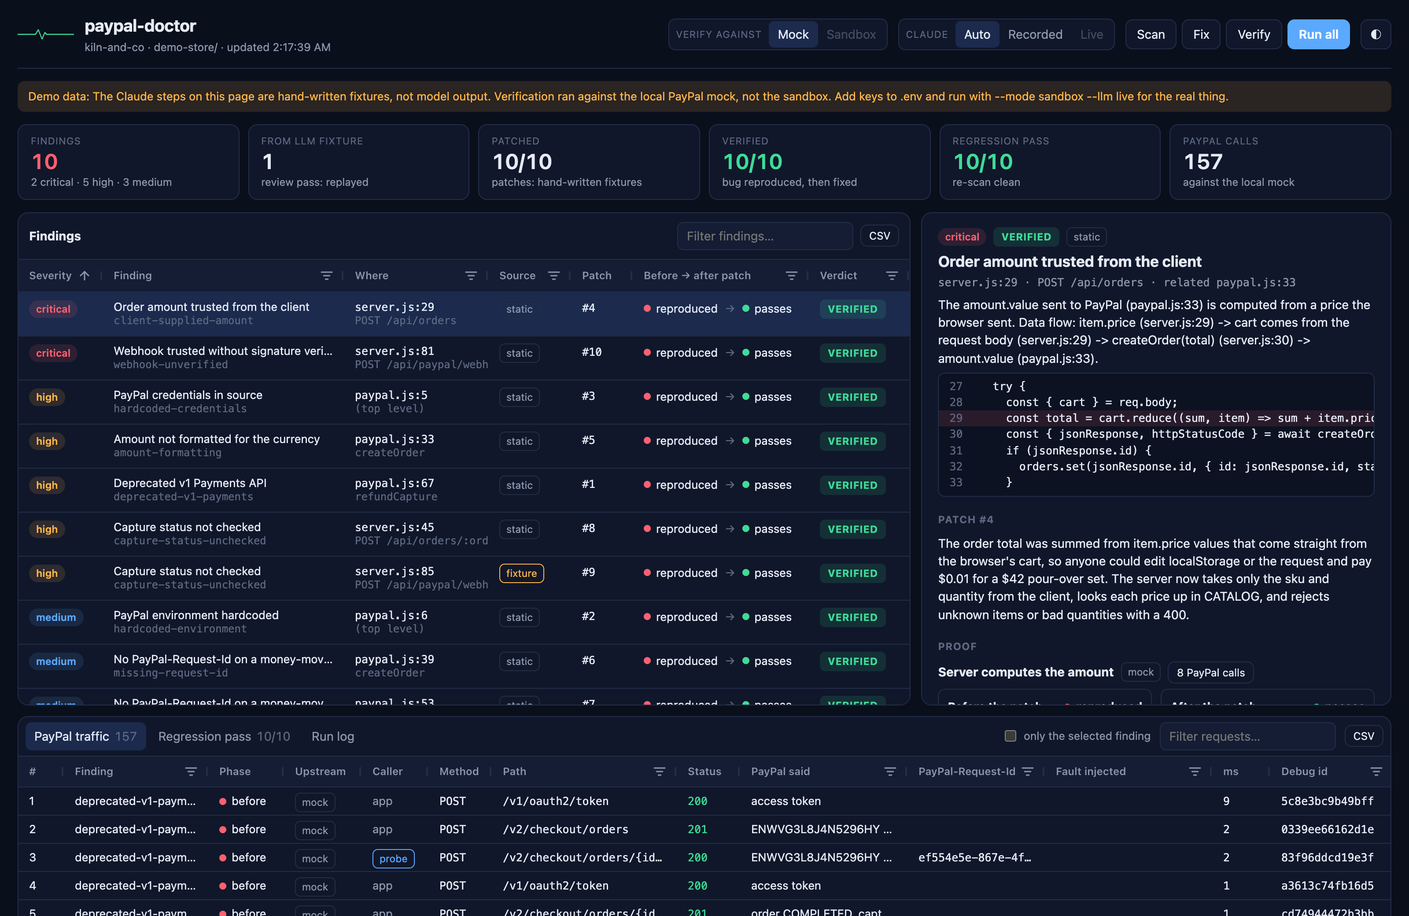
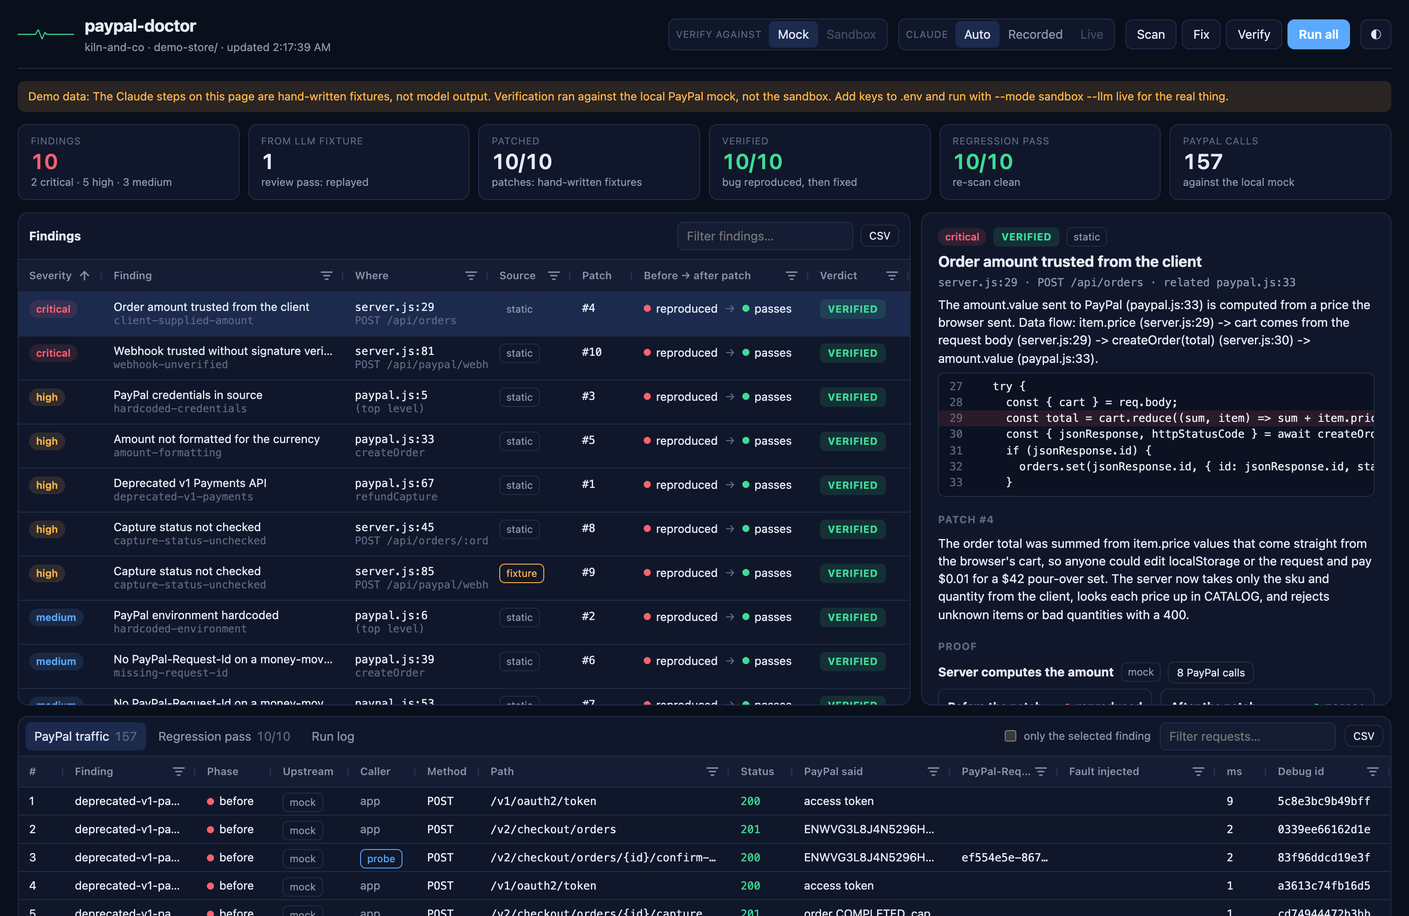
Hand-over notes for this round, and a clearer traffic grid
MORNING.md has what changed, what's still unverified and what's left. The
Path column now keeps /capture visible, with long order ids shortened.

diff --git a/dashboard/public/app.js b/dashboard/public/app.js
@@ -127,17 +127,17 @@ const trafficGrid = agGrid.createGrid($('#traffic-grid'), {
   defaultColDef: { sortable: true, resizable: true, filter: true, suppressHeaderMenuButton: true },
   columnDefs: [
     { headerName: '#', valueGetter: (p) => p.node.rowIndex + 1, width: 52, sortable: false, filter: false },
-    { headerName: 'Finding', colId: 'finding', width: 164, valueGetter: (p) => (p.data.findingId ? `${ruleOf(p.data.findingId)?.ruleId || p.data.findingId}` : 'regression pass') },
+    { headerName: 'Finding', colId: 'finding', width: 150, valueGetter: (p) => (p.data.findingId ? `${ruleOf(p.data.findingId)?.ruleId || p.data.findingId}` : 'regression pass') },
     { headerName: 'Phase', field: 'phase', width: 86, suppressHeaderFilterButton: true, cellRenderer: (p) => `<span class="dot ${p.value === 'before' ? 'bad' : 'ok'}">${esc(p.value)}</span>` },
     { headerName: 'Upstream', field: 'upstream', width: 88, suppressHeaderFilterButton: true, cellRenderer: (p) => `<span class="badge">${esc(p.value)}</span>` },
     { headerName: 'Caller', field: 'actor', width: 76, suppressHeaderFilterButton: true, headerTooltip: 'app = the app under test; probe = paypal-doctor acting as the buyer', cellRenderer: (p) => (p.value === 'probe' ? '<span class="badge llm" title="paypal-doctor playing the buyer">probe</span>' : '<span class="muted">app</span>') },
     { headerName: 'Method', field: 'method', width: 72, suppressHeaderFilterButton: true, cellClass: 'mono' },
-    { headerName: 'Path', field: 'path', flex: 1.2, minWidth: 210, cellClass: 'mono', tooltipField: 'path', valueFormatter: (p) => String(p.value || '').replace(/\/[A-Z0-9]{13,}(?=\/|$)/, '/{id}') },
+    { headerName: 'Path', field: 'path', flex: 1, minWidth: 284, cellClass: 'mono', tooltipField: 'path', valueFormatter: (p) => String(p.value || '').replace(/\/[A-Z0-9]{13,}(?=\/|$)/, '/{id}') },
     { headerName: 'Status', field: 'status', width: 72, suppressHeaderFilterButton: true, cellRenderer: (p) => `<span class="mono status-${String(p.value)[0]}">${p.value === 0 ? 'error' : esc(p.value)}</span>` },
-    { headerName: 'PayPal said', colId: 'said', flex: 1, minWidth: 190, tooltipValueGetter: (p) => saidOf(p.data), valueGetter: (p) => saidOf(p.data) },
-    { headerName: 'PayPal-Request-Id', colId: 'rid', width: 156, cellClass: 'mono', tooltipValueGetter: (p) => p.value, valueGetter: (p) => p.data.requestHeaders?.['paypal-request-id'] || '' },
-    { headerName: 'Fault injected', colId: 'faults', flex: 1, minWidth: 190, tooltipValueGetter: (p) => p.value, valueGetter: (p) => (p.data.faults || []).join('; ') },
-    { headerName: 'ms', field: 'ms', width: 66, suppressHeaderFilterButton: true, cellClass: 'mono' },
+    { headerName: 'PayPal said', colId: 'said', flex: 1, minWidth: 156, tooltipValueGetter: (p) => saidOf(p.data), valueGetter: (p) => saidOf(p.data) },
+    { headerName: 'PayPal-Request-Id', colId: 'rid', width: 122, cellClass: 'mono', tooltipValueGetter: (p) => p.value, valueGetter: (p) => p.data.requestHeaders?.['paypal-request-id'] || '' },
+    { headerName: 'Fault injected', colId: 'faults', flex: 1, minWidth: 170, tooltipValueGetter: (p) => p.value, valueGetter: (p) => (p.data.faults || []).join('; ') },
+    { headerName: 'ms', field: 'ms', width: 58, suppressHeaderFilterButton: true, cellClass: 'mono' },
     { headerName: 'Debug id', field: 'debugId', width: 140, cellClass: 'mono' },
   ],
   overlayNoRowsTemplate: '<span class="muted">No PayPal traffic yet - verify some patches.</span>',

diff --git a/MORNING.md b/MORNING.md
@@ -1,139 +1,140 @@
-# Good morning
+# Where this stands
 
-The **Repo** is https://github.com/furqan-khan07/paypal-doctor. It's **private**, has an MIT LICENSE, and 19 commits, all pushed.
+Repo: https://github.com/furqan-khan07/paypal-doctor. It's **private**, and GitHub detects the MIT license. Deadline: **Thu Nov 12, 12:00pm PT**.
 
-**TL;DR**
-- Find → fix → verify works end to end on the demo store, with a local PayPal mock and recorded Claude answers.
-- All ten findings come out *verified*: each bug is reproduced before its patch and gone after it.
-- The regression pass is 10/10 and the static re-scan is clean. The AG Grid dashboard is done.
-- What's left is real-world: your keys, one real sandbox + Claude run, the video, flipping the repo public, submitting.
-
-Your `.env` keys were still empty when I finished, so **nothing here has touched the real PayPal sandbox or the real Claude API yet**. See "What's mocked or untested" below.
+**The short version**
+- The tool works end to end on the mock with hand-written Claude answers.
+- It has now been checked against 60 public repos, which made the static scan far better.
+- The video kit and the Devpost draft are ready.
+- **It has still never touched the real PayPal sandbox or the real Claude API**, because `.env` is empty. The sandbox app itself is ready. Most of what's left starts with you pasting the keys.
 
 ---
 
-## What works (try these)
+## What's left for you, in order
+
+**1. PayPal keys (1 minute).** The sandbox app is ready: **Default Application** already has Expanded checkout and Advanced Credit and Debit Card Payments on, so there's nothing to change. Open https://developer.paypal.com/dashboard/applications/sandbox and click **Default Application** (I left that page open in Chrome). Copy **Client ID** and **Secret key 1** (the copy icon beside each) into `.env` as `PAYPAL_CLIENT_ID` and `PAYPAL_CLIENT_SECRET`.
+
+**2. Anthropic key.** https://console.anthropic.com → API keys → paste as `ANTHROPIC_API_KEY` in `.env`.
+
+**3. Check, then do the real run (roughly $1-3 in Claude, an estimate).**
 
 ```bash
-cd ~/Documents/PROJECTS/paypal-doctor
-npm install            # already done on this machine
-npm test               # 13 tests, ~9s: detectors (REST + server SDK), mock, interceptor, end-to-end, sandbox code path, apply --commits, Claude client
-npm run demo           # scan -> fix -> verify on the mock, then the dashboard at http://localhost:4417
+npm run preflight
 ```
-
-Other things worth poking at:
 
 ```bash
-node bin/paypal-doctor.js status           # which keys are set (prints set/empty only)
-node bin/paypal-doctor.js scan demo-store   # just the findings
-node bin/paypal-doctor.js dashboard         # dashboard for the latest report
-npm run store                               # the demo shop on :8888 with your .env (PayPal buttons need PAYPAL_CLIENT_ID)
-npm run forge-webhook -- <orderId>          # post a fake PAYMENT.CAPTURE.COMPLETED to the running shop
-node bin/paypal-doctor.js apply <dir> --yes --commits   # one git commit per verified patch + PULL_REQUEST.md
+node bin/paypal-doctor.js run demo-store --mode sandbox --llm record --dashboard
 ```
 
-Careful with that last one on `demo-store` itself: it would commit the fixes into this repo and the demo would have no bugs left. Try it on a copy (see `test/apply.test.js` for how).
+If a patch fails verification, keep the true result. It's better material than a clean sweep. Then commit what it recorded, which replaces my hand-written fixtures:
 
-On the dashboard:
-- Click a finding to see the flagged code, Claude's explanation, the before ✗ / after ✓ probe checks, and the diff.
-- The bottom grid shows every PayPal request, both the app's and the probe's own (buyer approval, replays). Tick "only the selected finding" to filter it.
-- Scan / Fix / Verify / Run all work from the page, and the log streams live.
-- Both grids export to CSV.
+```bash
+git add src/llm/fixtures && git commit -m "Record Claude fixtures from a live run" && git push
+```
 
-**The demo, in numbers:**
-- 9 seeded bugs found by the static pass, plus 1 that only the (recorded) Claude review finds: the webhook treating `PAYMENT.CAPTURE.PENDING` as paid.
-- 10 patches, each verified before/after.
-- A mock run takes about 8 seconds and makes about 155 PayPal calls. About 140 come from the app; the rest are the probe acting as the buyer, marked "probe" in the traffic grid.
+I was asked to do this step too, but it needs the keys. Once they're in `.env` I can run it and fix whatever breaks, if you'd rather hand it back.
 
-## What's mocked or untested
+**4. Update the claims.** In `SUBMISSION.md`, resolve each `[CONFIRM ...]` and fill in the real numbers. Do the same in the Devpost story, since it has the same markers.
+
+**5. Video.** Follow `VIDEO_SCRIPT.md`:
+
+```bash
+npm run video:capture
+```
+
+Then record `voiceover.m4a` in QuickTime and merge it. macOS will ask for microphone access once, for QuickTime.
+
+```bash
+npm run video:merge -- voiceover.m4a
+```
+
+Watch it, then upload to YouTube. The form accepts public or unlisted.
+
+**6. Finish the Devpost draft:** https://devpost.com/submit-to/31302-paypal-ai-hackathon/manage/submissions/1282940-paypal-doctor/project-overview. `SUBMISSION.md` lists exactly which fields I left for you, and why. The one that needs some thought: **"Which AI tools have you leveraged while working on this project?"** It asks about your whole process, so the product's Claude API line isn't a full answer. I left it blank because it's your statement to make.
+
+**7. Decide what stays in the public repo.** `MORNING.md`, `SUBMISSION.md` and `VIDEO_SCRIPT.md` are working notes, and this file reads like what it is: a hand-over to you. I'd `git rm` them before going public. They'd still be in the history, which is your call. Nothing sensitive is in them.
+
+**8. Go public and submit.**
+
+```bash
+gh repo edit furqan-khan07/paypal-doctor --visibility public --accept-visibility-change-consequences
+```
+
+Then tick the rules box and press Submit on Devpost yourself.
+
+---
+
+## What changed in this round
+
+**Real-world validation** (`docs/validation.md`). This was the big one.
+
+| Run | Repos | Findings | Correct | Low value | Wrong |
+|---|---|---|---|---|---|
+| First run, before any fixes | 22 | 237 | 48 | - | 189 (80%) |
+| Held-out set 1, after tuning | 18 | 23 | 16 | 6 | 1 |
+| Held-out set 2, after more fixes | 20 | 27 | 23 | 0 | 4 (3 are one file copied three times) |
+
+Reading the PayPal code by hand in the held-out repos also found misses: 10 in set 1 (13 repos read), 3 in set 2 (6 repos read). Most are fixed now. That's a spot check, not a recall number.
+
+What it exposed in my own work:
+- Secrets and webhooks weren't scoped to PayPal.
+- `/v1/payments/payouts` is PayPal's current API, so that rule was wrong.
+- About 1,900 files silently failed to parse because of decorators, which took out whole NestJS apps.
+- Arrow functions weren't being followed across files.
+- The dashboard badged my hand-written fixture as "found by Claude". It now says "fixture", with a banner.
+
+**Audit for going public**
+- No secrets in git history: a regex scan for ten key shapes found nothing, and `detect-secrets` over all 174 unique blobs found only env var names and obvious fakes. `gitleaks` isn't on conda-forge, so I used that instead.
+- `.env` was never tracked.
+- All 11 fixtures are labelled `handWritten: true`.
+- GitHub detects MIT.
+- A fresh clone works from the README alone: `npm install`, `npm test`, `npm run demo`.
+- All commits are under your identity.
+
+**Video kit**
+- ffmpeg 9.0.2 is in a new conda env, `paypal-doctor-video`.
+- `npm run video:capture` records real 1080p footage with headless Chrome, with **no macOS permission needed**, and retakes `docs/dashboard.png` at 3200x2080.
+- `npm run video:merge` was tested with a stand-in voice, including the over-2:59 refusal.
+- `VIDEO_SCRIPT.md` is timed. I measured the lines with macOS `say`: 2:17 of speech in a 2:48 video.
+
+**The current footage is a preview. Don't upload it.** It shows a "Demo data" banner, and the script says PayPal and Claude did things that, in this footage, the mock and my fixtures did. One `npm run video:capture` after the real run fixes all of it. `VIDEO_SCRIPT.md` has the shot-by-shot table.
+
+**Devpost.** The draft is created under your account and saved. It's still marked DRAFT, I didn't submit it, and I didn't tick any eligibility or rules box.
+
+---
+
+## Still unverified
 
 | Thing | State |
 |---|---|
-| Real PayPal sandbox | **Never run.** The sandbox code path is tested with the mock standing in for `api-m.sandbox.paypal.com`, so routing, the webhook lookup, mixed sandbox/mock probes and secret redaction are covered. Real sandbox behaviour isn't. |
-| Approving orders with a test card (`confirm-payment-source`) | Built from PayPal's docs, untested for real. Needs card payments enabled on your sandbox app. If it fails, every capture-related probe gets **skipped**, with the reason in the dashboard. |
-| Declined capture via the `CCREJECT-REFUSED` card name | Built from PayPal's card-testing page, untested. If the sandbox rejects at approval instead of at capture, the probe notes it and relies on the other two scenarios. |
-| Claude live calls | **Never run.** The request shape is tested against a fake Anthropic server (model, JSON-schema output, cached system prompt, fallback beta), and so is parsing and fixture record/replay. |
-| The Claude answers the demo uses | **Hand-written by me**, in `src/llm/fixtures/kiln-and-co/`, so `npm run demo` works without a key. They're marked `handWritten: true`, the CLI says "(hand-written fixture)", and the dashboard says so in each finding's provenance line. Replace them with real ones (step 4 below) before the video. |
-| `PENDING` capture | Can't be triggered on demand in the sandbox, so it's a fault the interceptor injects on the real response. Labelled as injected in the UI. |
-| Signed webhook accepted | Only PayPal can sign a webhook, and only when delivering to a public URL. So the "real event is still accepted" half of the webhook probes always runs on the mock. The forged-event half runs against the real verify endpoint. |
-| Apps using axios / `@paypal/paypal-server-sdk` | The interceptor now also bridges `node:http`/`https`, with a test using a raw `https.request` app. It has never been run against a real axios or SDK-based app. |
+| Real PayPal sandbox | **Never run.** The code path is tested with the mock standing in. |
+| Approving orders with a test card | Built from PayPal's docs, untested for real. Card payments are on for the app, but `npm run preflight` is what actually proves it. |
+| The `CCREJECT-REFUSED` decline | Built from PayPal's card-testing page, untested. If it's refused at approval, the probe notes that and relies on its other scenarios. |
+| Live Claude calls | **Never run.** Request shape tested against a fake API. Whether the model's patches pass the probes is the biggest open question. |
+| "Claude finds the `PENDING` webhook bug" | So far that's my hand-written fixture. Claude may or may not find it. |
+| `webhook-unverified` on real code | No real-world catch yet. The handlers I read in these 60 repos all verify, so it has only proved itself on my fixtures and the demo. |
+| Probes on an axios or SDK-based app | The `http` bridge has a test but has never run on a real app of that kind. |
+| Claude pass on public repos | The validation covers the static scan only. |
+| My triage | One reader (me), going by the source. I didn't run any of those apps. |
+
+Also: when I first opened the hackathon page, it offered "Edit project" for a submission #1282928. That link then said "not authorized" and the page went back to "Start project". I didn't create it and don't know what it was, so check My projects shows only #1282940.
 
 ## Decisions I made at roadblocks
 
-1. **Plain JavaScript (ESM), no TypeScript build.** Zero build steps for judges cloning it. Node 20.17 can't strip types natively.
-2. **Pinned dependency versions at least ~2 weeks old.**
-   - `@babel/parser` 7.29.9: v8 needs Node 22.
-   - `@anthropic-ai/sdk` 0.135.0: the 1.x line was under 10 days old.
-   - `ag-grid-community` 36.2.0, `diff` 9.0.0, `express` 5.3.0.
-3. **No-browser buyer approval** via `confirm-payment-source` with PayPal's published sandbox Visa (`4012888888881881`, override with `PAYPAL_DOCTOR_TEST_CARD`). It was the only way I found to get an order to `APPROVED` from a script.
-4. **The fix chain is sequential.** Patch N is written on top of patches 1..N-1, in a fixed order (config → money math → API calls → webhook), so every patch can be proven on its own.
-5. **Patches are find/replace edits, not unified diffs.** LLM-written diffs often don't apply. Edits must match exactly once and the file must still parse; in live mode a failed patch gets one retry with the error.
-6. **The `client-supplied-amount` rule stays.** PayPal's docs *imply* it rather than state it: the server computes purchase units from the cart, and the official sample does the same. Noted in `docs/rules.md`. Rules I couldn't back with a doc are listed there as "considered, not shipped".
-7. **The webhook id for probes.** If `PAYPAL_WEBHOOK_ID` is empty, sandbox mode **creates a webhook on your sandbox app**, pointing at `https://example.com/paypal-doctor-probe`, or reuses one with that URL. It's needed for verify-webhook-signature. It's harmless, but you'll see it in the dashboard; delete it whenever.
-8. **Credential probes always run on the mock**, so fake/baked-in credentials never get sent to PayPal.
-9. **The live API is hard-blocked** in the interceptor, regardless of config.
-10. **Model `claude-opus-5-5`.** Structured outputs, effort `high`, prompt caching on the system prompt, and server-side fallbacks (`fallbacks: "default"`). If your account rejects the fallback beta, it retries without it. Override with `PAYPAL_DOCTOR_MODEL`.
-11. **The dashboard is localhost-only and rejects cross-origin POSTs**, since it can start processes.
-12. **AG Grid Community only.** It's MIT-licensed (checked the LICENSE in the package), with no enterprise features, loaded from `node_modules` rather than a CDN.
-13. **The verifier checks the app can start before probing.** Otherwise a missing `npm install` showed up as "10 patches failed".
-14. **The demo store** is an npm workspace, so `npm install` at the root installs its Express too.
-15. **README tone.** Personal but without invented anecdotes. It mentions pandas-doctor as the predecessor, since that's in your brief. Edit to taste.
-16. **Added after the core worked:**
-    - `apply --commits`: one commit per verified patch, with the proof in the message, plus PULL_REQUEST.md.
-    - `node:http`/`https` interception, for axios and the SDK.
-    - Detector support for `@paypal/paypal-server-sdk`, with a TypeScript fixture.
-    - CSV export on the dashboard.
-    - A Host-header check on the dashboard against DNS rebinding.
-17. **No CI workflow.** I didn't add a GitHub Actions workflow, since it would spend Actions minutes on your account while the repo is private. If you want a badge, add `.github/workflows/test.yml` running `npm ci && npm test` on Node 20 after flipping it public.
+Earlier ones are in the git history of this file. From this round:
 
-## What you need to do next
-
-1. **Keys.** Paste into `.env`:
-   - `PAYPAL_CLIENT_ID` and `PAYPAL_CLIENT_SECRET`: developer.paypal.com → Apps & Credentials → **Sandbox** → your app.
-   - `ANTHROPIC_API_KEY`.
-   - `PAYPAL_WEBHOOK_ID` is optional (see decision 7).
-2. **Card payments on the sandbox app.** In the app's settings, make sure card payments (Advanced Credit and Debit Card Payments) are enabled. New US sandbox apps usually have it on.
-3. **Preflight:**
-   ```bash
-   npm run preflight
-   ```
-   This walks token → create → approve with the test card → capture → idempotent replay → v2 refund → webhook → forged signature. Everything should be ✓. If "Approve with a sandbox test card" fails, it's step 2.
-4. **The real run, recording Claude's answers over my hand-written ones:**
-   ```bash
-   node bin/paypal-doctor.js run demo-store --mode sandbox --llm record --dashboard
-   ```
-   (`npm run demo:real` is the same thing but with `--llm live`, so nothing is saved.)
-   - Look at each patch Claude wrote. If one fails verification, that's real data and honestly a better demo than everything passing. But if a patch is plainly bad, re-run that one.
-   - Cost estimate: 11 Opus 5.5 calls with high effort, roughly $1-3 per full run.
-   - After it records, commit the new fixtures (`git add src/llm/fixtures && git commit -m "Record Claude fixtures from a live run"`), so `npm run demo` replays the real thing.
-5. **Check the dashboard after the sandbox run.**
-   - The "PayPal calls" tile should say "against the sandbox".
-   - The traffic grid should show real `paypal-debug-id`s.
-   - Note the numbers for SUBMISSION.md's "Accomplishments" placeholder.
-6. **Retake `docs/dashboard.png`.** Mine is an 800px-wide capture from a preview pane; a real full-width screenshot will look much better.
-7. **Video.** Follow the shot list in `SUBMISSION.md`.
-   - For the storefront shots you need `npm run store` with your sandbox client id, plus a sandbox *personal* account to log into the PayPal popup. I didn't sign into anything.
-   - Upload it to YouTube yourself, public, under 3 minutes.
-8. **Fill in `SUBMISSION.md`:** the "AI tools used" list must include everything you used, and fill in the accomplishments numbers.
-9. **Flip the repo public right before submitting:**
-   ```bash
-   gh repo edit furqan-khan07/paypal-doctor --visibility public --accept-visibility-change-consequences
-   ```
-   Then check GitHub shows "MIT license" in the sidebar.
-10. **Submit on Devpost before Thu Nov 12, 12:00pm PT.** Pick a Grand/Honorable track, and **AG Grid** as the sponsor prize.
-
-## Where things are
-
-- `README.md` covers setup, how it works, the CLI, config for your own app, safety and limitations.
-- `docs/rules.md` has each rule's detection logic, how its probe proves it, and the doc link; plus the rules I dropped.
-- `SUBMISSION.md` is the Devpost description draft, the AI tools section and the video shot list.
-- `scripts/demo-fixtures.mjs` regenerates the hand-written fixtures if you change the demo store.
-- Commits are all under your git identity, with no co-author trailers.
+1. **PayPal's developer site wasn't signed in at first, so I moved on until you signed in.** Then I used the existing Default Application rather than creating another, and changed nothing on it: card payments were already on. I never revealed or copied the secret. Devpost was signed in as `furqan-khan07` (I checked).
+2. **Two held-out sets, not one.** Fixing what the first exposed meant it could no longer give an independent number.
+4. **Selection was by stars from GitHub code search,** fixed before seeing results, so I couldn't pick repos that flattered the tool.
+5. **`Individual` for submitter type** on the Devpost draft, since the brief describes you entering alone. Change it if that's wrong.
+6. **Left blank on Devpost:** your country, ratings, opinions and the AI tools question. They're your answers, not facts I can look up.
+7. **Saved the Devpost story with its `[CONFIRM ...]` markers in,** so an unverified claim can't pass as fact.
+8. **Video kit kept out of the main dependencies** (`scripts/video/` has its own package), so the tool stays at four.
 
 ## If something breaks
 
-- `paypal-doctor: Could not start the app …`: the verifier couldn't boot the target. For the demo store, re-run `npm install` at the repo root.
-- Probes **skipped** with "would not approve the order with a test card": card payments are off for the sandbox app (step 2).
-- `PayPal rejected the client id / secret`: these are sandbox keys, not live. Watch for whitespace in `.env`.
-- `DEBUG=1 node bin/paypal-doctor.js …` prints stack traces.
-- `--keep` on `run`/`verify` keeps the temp copies of the app and the raw JSONL traces. The path is printed in the report under `verify.workRoot`.
+- `Could not start the app …`: re-run `npm install` at the repo root.
+- Probes **skipped** with "would not approve the order with a test card": card payments are off for the sandbox app (step 1).
+- `PayPal rejected the client id / secret`: use sandbox keys, not live ones, and watch for whitespace in `.env`.
+- `npm run video:capture` says "No verified report": run `npm run demo` or the real run first.
+- `DEBUG=1 node bin/paypal-doctor.js …` prints stack traces. `--keep` keeps the temp app copies and raw traces.

diff --git a/SUBMISSION.md b/SUBMISSION.md
@@ -98,6 +98,26 @@ The rules ask for a list of the AI tools used. List every one honestly, includin
 
 ---
 
+## Devpost draft status
+
+Draft: https://devpost.com/submit-to/31302-paypal-ai-hackathon/manage/submissions/1282940-paypal-doctor/project-overview
+
+Filled in and saved: name, elevator pitch, the story (everything above, with its `[CONFIRM ...]` markers), Built with tags, the repo link, Individual, N/A for organization, New project, the technology requirement answer, AG Grid as the sponsor tool, the repo URL, the demo URL and testing instructions.
+
+Left for you, because they're your own answers:
+
+- **Project details:** the YouTube link (required; public or unlisted, per the form), and images if you want them.
+- **Additional info:**
+  - Submitter country of residence, and the Canada province field (or `N/A`).
+  - Your PayPal integration rating, why, and whether they can contact you.
+  - Your AG Grid experience (optional).
+  - **Which AI tools you leveraged while working on this project.** This one asks about your whole process, so the Claude API line below isn't the full answer. List everything you used to build it and make the video.
+  - The level of learning, and whether you gained AI value for your career.
+  - The three eligibility boxes: age of majority, eligible jurisdiction, not an employee of a promotion entity.
+- **Submit step:** the rules checkbox and the Submit button.
+
+Check first that "Submitter type: Individual" is right. If Pierce, Otabek or anyone else is on this with you, it should be Team.
+
 ## Video
 
 See `VIDEO_SCRIPT.md`: the timed voiceover, the commands that record the footage and merge your voice in, and what changes after the real run.
